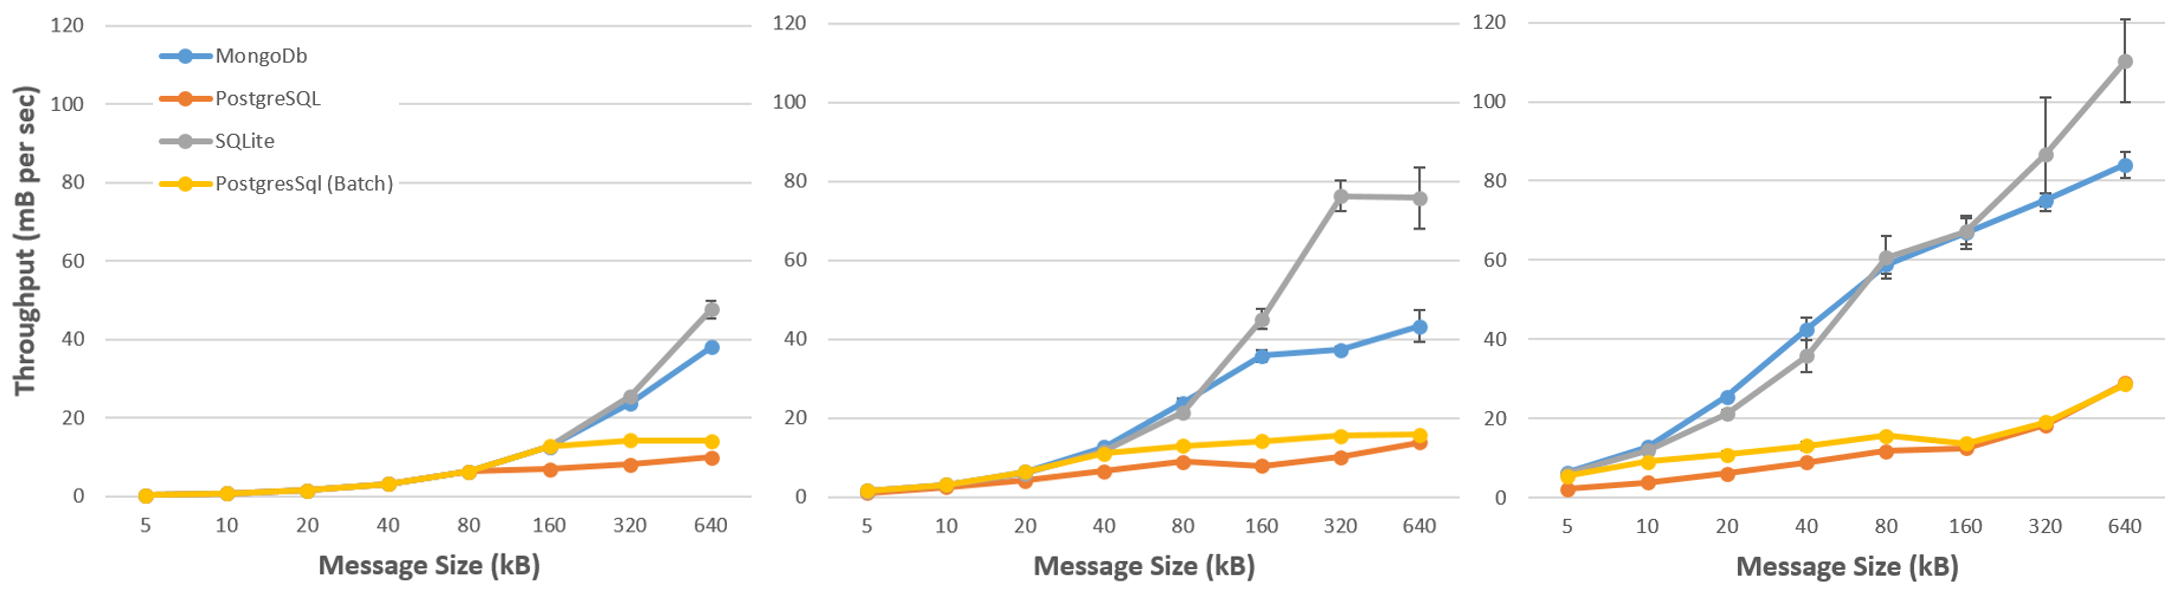
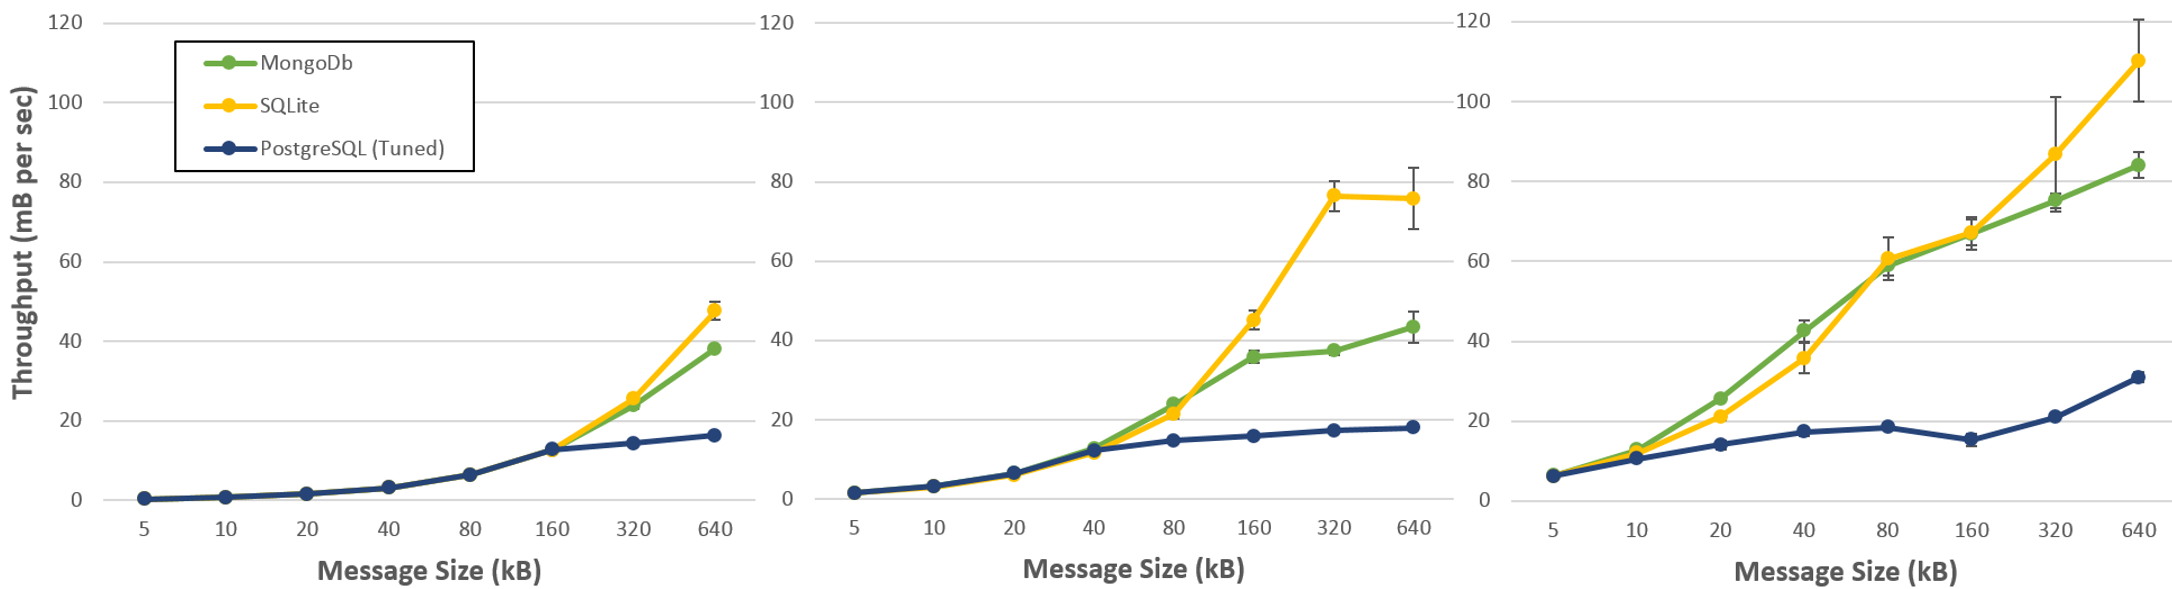
Adding query data and updated postgres tuning info

diff --git a/main.tex b/main.tex
@@ -2,6 +2,7 @@
 \usepackage{url}
 \usepackage{subfig}
 \usepackage{color,soul}
+\usepackage{enumitem}
 
 \DeclareGraphicsExtensions{.png, .PNG}
 
@@ -81,6 +82,29 @@ In order to persist ROS messages, all messages were converted to a JSON (Javascr
 
 \begin{figure*}
     \centering
+    \includegraphics[width=\linewidth]{images/tuning}
+    \subfloat[4 Messages Per Second]{%
+        \hspace{0.3\linewidth}
+        \label{4hz_tuning}%
+    }
+    \subfloat[16 Messages Per Second]{%
+        \hspace{0.4\linewidth}
+        \label{16hz_tuning}%
+    }
+    \subfloat[64 Messages Per Second]{%
+        \hspace{0.3\linewidth}
+        \label{64hz_tuning}%
+    }
+    \caption{Tuning PostgreSQL by Testing Throughput Across Multiple Frequencies and Message Sizes}
+    \label{fig:tuning}
+\end{figure*}
+
+Given this choice of data representation, MongoDb was chosen as a good candidate database for evaluation since MongoDb is a NoSQL document-oriented database which stores all data in JSON and is optimized for fast JSON-based queries. While JSON has not traditionally been considered well suited to being stored in a relational database (having a potentially varied structure), recent advances in PostgreSQL 9.4 have added extensions which allow PostgreSQL to query against JSON data columns in a similar fashion to that of MongoDb, except through the high-level query language SQL. Therefore, PostgreSQL with JSON support was chosen as the second database to evaluate in this study. Finally, initial tests showed that the primary challenge in creating a ROS message logging database is that ROS can have potentially many messages streaming through its network at any given time (on the order of Gb per minute), making it challenging to persist all of the messages in the network as fast as they are generated. For this reason, SQLite3, an embedded database designed to have minimal overhead, was chosen as the third database to evaluate. While future work should be conducted to examine the potential of using streaming engines running on computer clusters for real-time analytics, this work focuses on the more common hardware setup for the average roboticist of a one to two computer system without the requisite resources for running extremely RAM intensive data stores such as the in-memory database VoltDb or the streaming engine Spark Streaming.
+
+For the first criteria evaluated in this study (throughput), a synthetic dataset was generated by creating a message streaming ROS node with the ability to generate multiple topics running at the same frequency and sending messages of the same size in terms of bytes. To test the second criteria (real-world dataset performance), the MIT Stata Center dataset was chosen \cite{fallon2013stata}. This data set encompasses a series of recordings of data from a PR2 robot driving around a building. It includes data types such as laser scans, accelerometer data, and images. While unconventional, these types of data are common in robotics research. The recordings range from 1 - 63 GB in size, representing 1 - 97 minutes in length. Finally, in order to evaluate the third criteria (query performance), built our own data set from a PR2 including message types other than images and laser scans (e.g. joint position messages, audio messages, etc.) which are useful for testing queries against data reflecting a broad subset of possible message types in the ROS environment (\textit{note, this final dataset has yet to be created, and may change before the final submission}).
+
+\begin{figure*}
+    \centering
     \includegraphics[width=\linewidth]{images/throughput}
     \subfloat[4 Messages Per Second]{%
         \hspace{0.3\linewidth}
@@ -98,16 +122,19 @@ In order to persist ROS messages, all messages were converted to a JSON (Javascr
     \label{fig:throughput}
 \end{figure*}
 
-Given this choice of data representation, MongoDb was chosen as a good candidate database for evaluation since MongoDb is a NoSQL document-oriented database which stores all data in JSON and is optimized for fast JSON-based queries. While JSON has not traditionally been considered well suited to being stored in a relational database (having a potentially varied structure), recent advances in PostgreSQL 9.4 have added extensions which allow PostgreSQL to query against JSON data columns in a similar fashion to that of MongoDb, except through the high-level query language SQL. Therefore, PostgreSQL with JSON support was chosen as the second database to evaluate in this study. Finally, initial tests showed that the primary challenge in creating a ROS message logging database is that ROS can have potentially many messages streaming through its network at any given time (on the order of Gb per minute), making it challenging to persist all of the messages in the network as fast as they are generated. For this reason, SQLite3, an embedded database designed to have minimal overhead, was chosen as the third database to evaluate. While future work should be conducted to examine the potential of using streaming engines running on computer clusters for real-time analytics, this work focuses on the more common hardware setup for the average roboticist of a one to two computer system without the requisite resources for running extremely RAM intensive data stores such as the in-memory database VoltDb or the streaming engine Spark Streaming.
-
-For the first criteria evaluated in this study (throughput), a synthetic dataset was generated by creating a message streaming ROS node with the ability to generate multiple topics running at the same frequency and sending messages of the same size in terms of bytes. To test the second criteria (real-world dataset performance), the MIT Stata Center dataset was chosen \cite{fallon2013stata}. This data set encompasses a series of recordings of data from a PR2 robot driving around a building. It includes data types such as laser scans, accelerometer data, and images. While unconventional, these types of data are common in robotics research. The recordings range from 1 - 63 GB in size, representing 1 - 97 minutes in length. Finally, in order to evaluate the third criteria (query performance), built our own data set from a PR2 including message types other than images and laser scans (e.g. joint position messages, audio messages, etc.) which are useful for testing queries against data reflecting a broad subset of possible message types in the ROS environment (\textit{note, this final dataset has yet to be created, and may change before the final submission}).
-
 \subsection{Measuring Throughput}
 \label{sec:throughput}
 In the ROS ecosystem, published topics vary significantly in both the frequency at which messages are sent upon them, and in the size of messages belonging to the topic. This makes sense when considering that message types are very diverse, i.e. laser scans, joint angles, system events, etc. Therefore, in order to effectively compare the throughput of the three databases in consideration, several synthetic datasets were generated, reflecting potential types of messages that could appear in the ROS network. A constant 20 topics were generated for each synthetic data stream with each topic generating 500 messages. Additionally, each topic subscriber in the logging program was limited to an incoming message queue size of 10. This means that if messages are received by the logger faster than the underlying database can persist the messages, messages will be dropped from the incoming queue. This serves as a method of determining maximal throughput for each database. As frequencies and message sizes are increased, messages will begin to be dropped when the database has reached it maximum throughput for inserts corresponding to messages of the given size. Therefore, message sizes were varied on an exponential scale (each size is twice the previous message size) from 5000 bytes (approximately the size of a \textit{tf} message describing a coordinate frame transformation) to 0.64 Mb (approximately the size of a laser scan frame). To capture the effect of topic frequency on throughput, data streams were generated at three different frequencies: 4 hz, 16 hz, and 64 hz. Altogether, this resulted in the generation of 24 different data streams (3 frequencies by 8 message sizes). Each database was tested by logging each data stream 5 times in order to obtain reliable average throughput values over each stream. The experiment was run on a computer system running with an Intel Core i7-4770 CPU with 8 cores, 16 GB of memory, and a local hard disk.
 
+\subsubsection{Tuning PostgreSQL}
+In preliminary tests it was observed that PostgreSQL was performing significantly worse than both SQLite3 and MongoDB on the throughput experiment. It was determined that this was likely due to the fact that the our naive implementation of the PostgreSQL-ROS interface inserted each ROS message in autocommit mode. This means that each message was inserted in its own transaction. This clearly causes some amount of unnecessary overhead, although the degree to which using autocommit mode slows down PostgreSQL was unclear. Therefore, an additional test was run in which the naive PostgreSQL-ROS interface was re-engine-ered in order to allow message inserts to be batched into 2 second groups for each database transaction under the hypothesis that this optimization could yield significantly greater throughput values by decreasing overhead. As can be seen in Figure \ref{fig:throughput}, this optimization did yield improved throughput for the PostgreSQL database. To further tune the PostgreSQL engine, both the effective cache size and shared buffer size were increased to rather aggressive levels (12Gb and 4Gb respectively) in order to prevent encourage maximally efficient inserts. Again, this optimization improved overall PostgreSQL performance, but only by a small amount when considering the throughput values obtained by SQLite3 and MongoDb. Figure \ref{fig:throughput} references the throughput values for the final optimized version of the PostgreSQL engine determined in this section.
+
+%; however, SQLite3 and MongoDB were still significantly better, often by factors of 2 to 3 times greater throughput.
+
 \subsubsection{Results}
-Results for this throughput evaluation against PostgreSQL, MongoDb, and SQLite3 can be seen in Figure \ref{fig:throughput}. Figure \ref{fig:throughput} splits these results into three graphs, one for each of the frequency levels. Interestingly, PostgreSQL performed significantly worse than both SQLite3 and MongoDb. In preliminary tests it was determined that this was likely due to the fact that the our naive implementation of the PostgreSQL-ROS interface inserted each ROS message in autocommit mode. This means that each message was inserted in its own transaction. This clearly causes some amount of unnecessary overhead, although the degree to which using autocommit mode slows down PostgreSQL was unclear. Therefore, an additional test was run in which the naive PostgreSQL-ROS interface was re-engineered in order to allow message inserts to be batched into 2 second groups for each database transaction under the hypothesis that this optimization could yield significantly greater throughput values. As can be seen in Figure \ref{fig:throughput}, this optimization did yield improved throughput for the PostgreSQL database; however, SQLite3 and MongoDB were still significantly better, often by factors of 2 to 3 times greater throughput. It is important to note in Figure \ref{fig:throughput} that the points on the left of each graph at which all four implementations achieved that same throughput are points at which all messages made it into the database. These values therefore do not indicate a maximum throughput for the given message frequency and size. However, divergence of the throughput graphs at larger message sizes indicate that only some fraction of the total number of messages generated were actually inserted into the database, indicating the maximal throughput for each database at these given message frequencies and sizes. 
+Results for the throughput evaluation against PostgreSQL, MongoDb, and SQLite3 can be seen in Figure \ref{fig:throughput}. Figure \ref{fig:throughput} splits these results into three graphs, one for each of the frequency levels. Interestingly, PostgreSQL performed significantly worse than both SQLite3 and MongoDb. 
+
+It is important to note in Figure \ref{fig:throughput} that the points on the left of each graph at which all four implementations achieved that same throughput are points at which all messages made it into the database. These values therefore do not indicate a maximum throughput for the given message frequency and size. However, divergence of the throughput graphs at larger message sizes indicate that only some fraction of the total number of messages generated were actually inserted into the database, indicating the maximal throughput for each database at these given message frequencies and sizes. 
 
 \hl{Explain the figure and why throughput increases with frequency and size: The general upward trend towards greater throughput for higher frequencies and for larger messages}
 
@@ -126,22 +153,39 @@ The previous section stress tested each of the databases by generating a fixed n
     \label{fig:realworld}
 \end{figure}
 
-\subsubsection{Results}
+\subsubsection{Experiment dataset}
+To evaluate how useful the logging system would be to a robotics researcher, we evaluated the time taken execute several representative queries for an experiment dataset (\textit{HCR1}).
 
+% \subsection{Current State and Remainder of Project}
+% Up to this point, the major set of work completed in this project has been in developing a multithreaded logging node for ROS, the database connectors which allow the logger to persist data to any of the given databases, and a testing framework for automating the throughput experiments in section \ref{sec:throughput}. Given this framework of code, the second study, in section \ref{sec:realworld}, is simply a matter of running the throughput automation script with the appropriate inputs specified (real world data set instead of the synthetic data set). Therefore, this portion should not be a major hurdle moving forward. The main issues remaining involve finishing the SQLite3 connector so that the throughput results for SQLite3 can be integrated into Figure \ref{fig:throughput}. Additionally, the portion of the study dealing with query performance still needs to be coded and tested. A majority of our efforts moving forward will be dedicated to this section.
 
-\subsection{Current State and Remainder of Project}
-Up to this point, the major set of work completed in this project has been in developing a multithreaded logging node for ROS, the database connectors which allow the logger to persist data to any of the given databases, and a testing framework for automating the throughput experiments in section \ref{sec:throughput}. Given this framework of code, the second study, in section \ref{sec:realworld}, is simply a matter of running the throughput automation script with the appropriate inputs specified (real world data set instead of the synthetic data set). Therefore, this portion should not be a major hurdle moving forward. The main issues remaining involve finishing the SQLite3 connector so that the throughput results for SQLite3 can be integrated into Figure \ref{fig:throughput}. Additionally, the portion of the study dealing with query performance still needs to be coded and tested. A majority of our efforts moving forward will be dedicated to this section.
+% \subsubsection{Robotics Query Performance}
+% We want to explore the expressivity of the query functionality for each database in addition to the time required to execute several representative queries over ROS message datasets. One set of queries we would like to test is retrieving messages based on values inside the messages. Clearly, any database system used for logging ROS messages will need to have the ability to query over JSON messages. Another set of queries to try is to retrieve a set of messages between two points in time. However, we are still considering what kinds of queries would be more interesting. This is challenging because ROS messages tend to represent readings from different sensors, which are not synchronized to produce messages at the same time. Therefore, it is hard to compute joins across different types of sensors. For example, one topic might receive a message whenever the robot's gripper is opened or closed, which occurs infrequently, while another topic might output the position of the robot's gripper in 3D space, which is output many times a second. An example of an interesting query would be to compute how much time is spent moving the robot's gripper while it is open. However, it's not clear how to write this query in any of the database systems we're evaluating. As a result, we may just evaluate how easy and efficient it is to query for data, such that we can manually compute the answers to more complex queries.
 
-\subsubsection{Robotics Query Performance}
-We want to explore the expressivity of the query functionality for each database in addition to the time required to execute several representative queries over ROS message datasets. One set of queries we would like to test is retrieving messages based on values inside the messages. Clearly, any database system used for logging ROS messages will need to have the ability to query over JSON messages. Another set of queries to try is to retrieve a set of messages between two points in time. However, we are still considering what kinds of queries would be more interesting. This is challenging because ROS messages tend to represent readings from different sensors, which are not synchronized to produce messages at the same time. Therefore, it is hard to compute joins across different types of sensors. For example, one topic might receive a message whenever the robot's gripper is opened or closed, which occurs infrequently, while another topic might output the position of the robot's gripper in 3D space, which is output many times a second. An example of an interesting query would be to compute how much time is spent moving the robot's gripper while it is open. However, it's not clear how to write this query in any of the database systems we're evaluating. As a result, we may just evaluate how easy and efficient it is to query for data, such that we can manually compute the answers to more complex queries.
-
-Queries:
-\begin{itemize}
+The research questions we wanted to answer from the dataset included the following queries:
+\begin{enumerate}[label=Q\arabic*]
 \item Get the number of times the right gripper was closed
 \item Get the amount of time the camera was behind the robot
 \item Get the number of times the right gripper was moved while in a particular region
-\item Get the number of times a grasp was attempted with the right when the camera was in front of the robot (+/- 0.1 seconds)
-\end{itemize}
+\item Get the number of times a grasp was attempted with the right gripper when the camera was in front of the robot (+/- 0.1 seconds)
+\end{enumerate}
+
+The time for each query is shown in figure X.
+
+\begin{figure}
+\centering
+\begin{tabular}{c | c | c | c | c}
+  & Q1 & Q2 & Q3 & Q4 \\
+ \hline
+ MongoDB & & & & \\
+ Postgres & & & & \\
+ SQLite3 & & & & \\
+ MongoDB (indexed) & & & & \\
+ Postgres (indexed) & & & & 
+\end{tabular}
+\caption{Query times for each query using MongoDB, PostgreSQL, and SQLite3. For MongoDB and PostgreSQL, we also report query times after creating indices designed for each query.}
+\label{fig:my_label}
+\end{figure}
 
 % Query:
 % select sum(foo.count) from (select count(*) from r_gripper_controller__command where CAST(data::json->>'position' AS real)=0 union select count(*) from l_gripper_controller__command where CAST(data::json->>'position' AS real)=0) as foo;
@@ -149,46 +193,78 @@ Queries:
 
 Complex queries: how to compute number of times the camera was moved, by counting number of runs of changing values.
 
+MongoDB
+
+% Add paragraph about lines of code necessary to answer these questions
+
 % MongoDB
 % Get the number of times the right gripper was closed
-% db.runCommand({count: 'r_gripper_controller__command', query: {'position': 0.0}})
-% { "n" : 3, "ok" : 1 }
+% db.r_gripper_controller__command.find({'position': 0.0}).count()
+% 3
 % millis: 0
 
 % Get the amount of time where the camera was behind the robot.
-% db.runCommand({count: 'rviz_camera_publisher__camera_pose', query: {'position.x': {$lte: 0}}})
-% { "n" : 1292, "ok" : 1 }
-% millis: 19
+% db.rviz_camera_publisher__camera_pose.find({'position.x': {$lte: 0}}).count()
+% 1292
+% millis: 22
 
 % Get the number of times the right gripper was moved in a particular region
-% db.runCommand({count: 'r_cart__command_pose', query: {'pose.position.z': {$gt: 1}, 'pose.position.y': {$gt: -0.5, $lt: 0.5}, 'pose.position.x': {$gt: 0.5, $lt: 1}}})
+% db.r_cart__command_pose.find({
+%   'pose.position.z': {$gt: 1},
+%   'pose.position.y': {$gt: -0.5, $lt: 0.5},
+%   'pose.position.x': {$gt: 0.5, $lt: 1}
+% }).count()
+% 618
 % millis: 2
 
-% Get the number of times a grasp was attempted with the right gripper when the camera was in front of the robot 
-% 
+% Get the number of times a grasp was attempted with the right when the camera was in front of the robot (+/- 0.5 seconds)
+% db.r_gripper_controller__command.find({'position': 0.0}).map(
+%   function(evt) {
+% 	  var evtTime = evt._meta.inserted_at.getTime();
+%     var row = db.rviz_camera_publisher__camera_pose.findOne({
+%       'position.x': {$gte: 0},
+%       '_meta.inserted_at': {
+% 			  $lt: new Date(evtTime + 500),
+% 				$gt: new Date(evtTime - 500)
+% 			}
+%     })
+% 		return row;
+%   }
+% ).length
+% 3
+% millis: 60
+
 
 % SQLite3:
 %
-%   --Count msgs where position.x <= 0
-%   SELECT COUNT(*) 
-%   FROM rviz_camera_publisher__camera_pose
-%   WHERE json_le_field(msg, 'position.x', 0);
+%   --Q1
+%       SELECT COUNT(*) as count
+%       FROM r_gripper_controller__command 
+%       WHERE json_eq_field(msg, position, 0);
 %
-%   result: 1292, 124.76ms (3179.27ms on first run)
+%       result: 3, 0.29ms (25.54ms on second run)
 %
-%   --Count msgs where position.x >= 0
-%   SELECT COUNT(*) 
-%   FROM rviz_camera_publisher__camera_pose
-%   WHERE json_ge_field(msg, 'position.x', 0);
+%   --Q2
+%       SELECT COUNT(*) 
+%       FROM rviz_camera_publisher__camera_pose
+%       WHERE json_le_field(msg, 'position.x', 0);
 %
-%   result: 11275, 121.25ms
+%       result: 1292, 138.73ms (20886.92ms on first run)
 %
-%   --Count msgs where header.stamp.secs >= 1400729704
-%   SELECT COUNT(*) 
-%   FROM head_mount_kinect__rgb__image_color__compressed
-%   WHERE json_ge_field(msg, header.stamp.secs, 1400729704);
+%   --Q3
+%       SELECT COUNT(*) 
+%       FROM r_cart__command_pose
+%       WHERE json_gt_field(msg, pose.position.z, 1)
+%       AND   json_gt_field(msg, pose.position.y, -0.5)
+%       AND   json_lt_field(msg, pose.position.y, 0.5)
+%       AND   json_gt_field(msg, pose.position.x, 0.5)
+%       AND   json_lt_field(msg, pose.position.x, 1);
 %
-%   result: 8678, 2074.9ms
+%       result: 618, 80.14ms (4645.94ms on first run)
+%
+%   --Q4
+%       
+
 
 
 %\section{Discussion}
